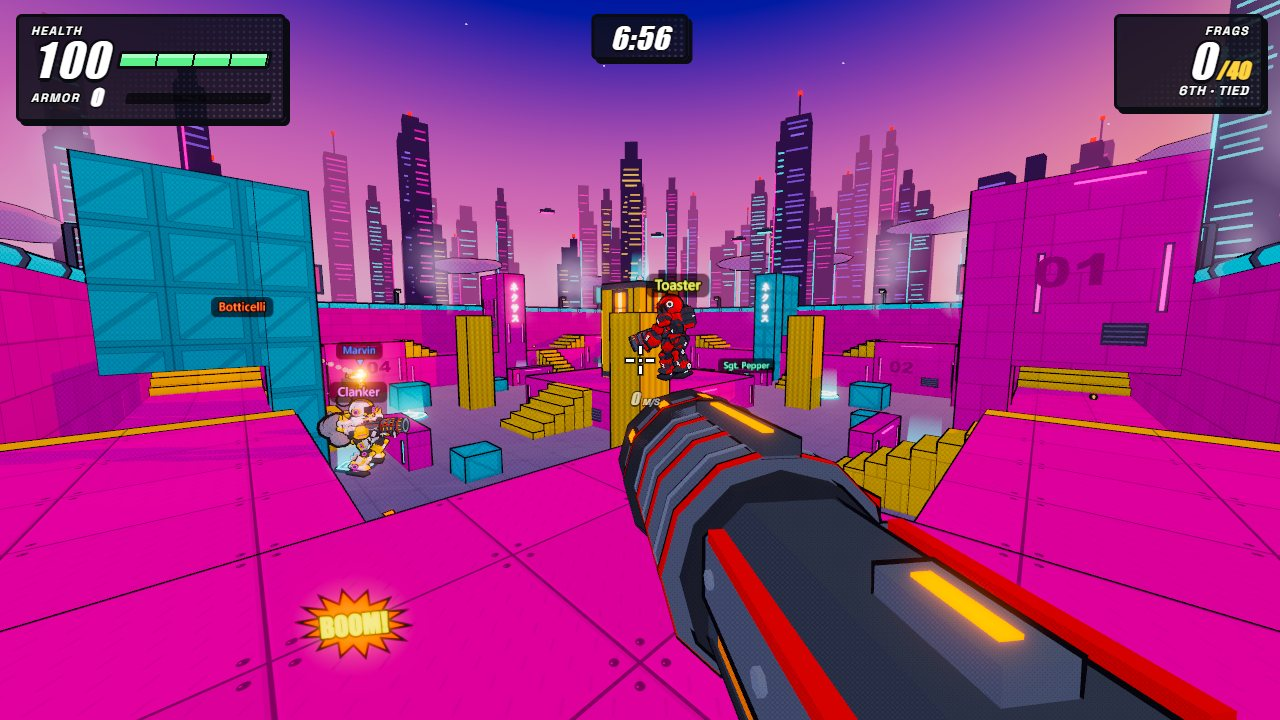
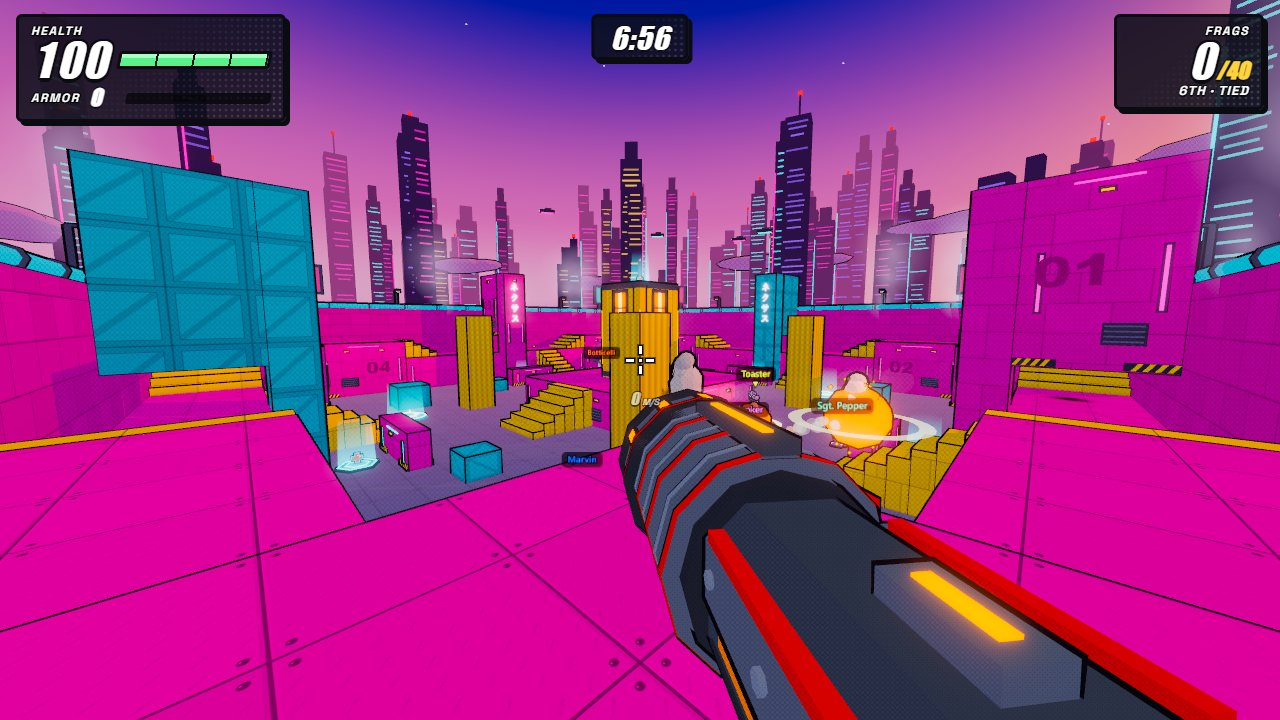
play: Rockets Foundry: hazard stripes at the block corners, warm lamps under the block tops

diff --git a/play/frontend/src/games/rockets/arenaDecor.ts b/play/frontend/src/games/rockets/arenaDecor.ts
@@ -487,6 +487,33 @@ function neonTrim(map: MapData, solid: Bucket, glow: Bucket, rand: () => number,
           glow.add(at(box(Math.min(len * 0.4, 3), 0.09, 0.07), x, y, z, yaw), color);
         }
       }
+      // Yellow and black hazard stripes along the foot of each corner, and warm lamps under the top edge.
+      const footY = b.min.y + 0.22;
+      for (const [s0, dir] of [[a0, 1], [a1, -1]] as const) {
+        const [ox, oz] = pt(s0 + dir * 0.6, 0.3);
+        if (blockedAt(map.boxes, b, ox, footY, oz)) continue;
+        const run = Math.min(1.6, len * 0.3);
+        const [bx, bz] = pt(s0 + (dir * run) / 2, 0.03);
+        solid.add(at(box(run, 0.36, 0.04), bx, footY, bz, yaw), 0x1e1c26);
+        for (let d = 0.1; d < run - 0.15; d += 0.32) {
+          const g = new THREE.PlaneGeometry(0.15, 0.32);
+          g.applyMatrix4(new THREE.Matrix4().makeShear(0, 0, 0.6, 0, 0, 0));
+          const [x, z] = pt(s0 + dir * (d + 0.08), 0.055);
+          // The plane faces +Z; turn it to the face's outward normal.
+          solid.add(at(g, x, footY, z, Math.atan2(alongX ? 0 : out, alongX ? out : 0)), 0xf2c232);
+        }
+      }
+      if (len >= 3 && h >= 2) {
+        for (const a of len >= 7 ? [a0 + len * 0.3, a1 - len * 0.3] : [(a0 + a1) / 2]) {
+          const y = b.max.y - Math.min(0.9, h * 0.25);
+          const [ox, oz] = pt(a, 0.3);
+          if (blockedAt(map.boxes, b, ox, y, oz)) continue;
+          const [x, z] = pt(a, 0.06);
+          const [lx, lz] = pt(a, 0.11);
+          solid.add(at(box(0.5, 0.2, 0.12), x, y, z, yaw), 0x2a2634);
+          glow.add(at(box(0.38, 0.1, 0.04), lx, y - 0.02, lz, yaw), 0xffa640);
+        }
+      }
       // A vent grille right of centre, low down: a dark frame with slats.
       if (len >= 4 && h >= 2.5) {
         const a = (a0 + a1) / 2 + len * 0.18;
